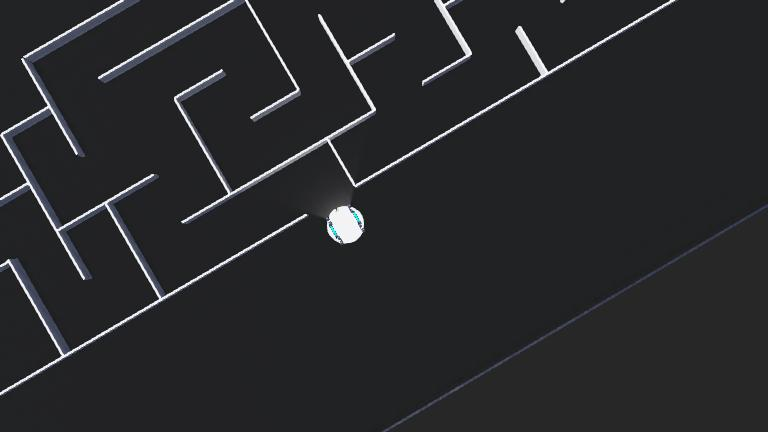
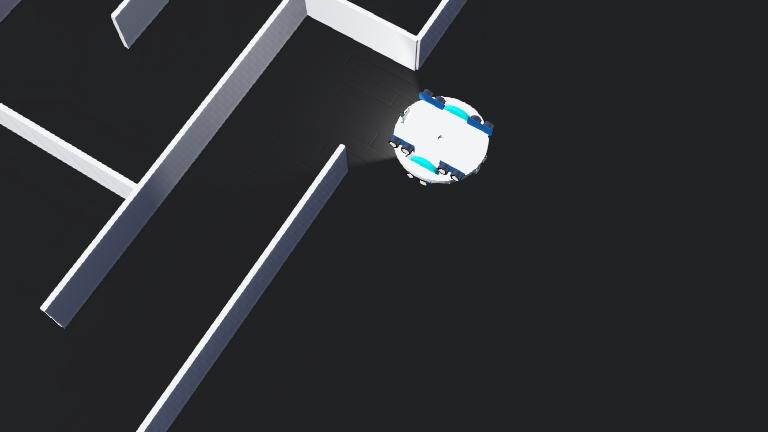
moved cam downwards. Orange detection works

diff --git a/test_array.py b/test_array.py
@@ -3,14 +3,14 @@ arr1=[[[0, 0, 1, 1], [1, 0, 1, 0], [1, 0, 1, 0], [1, 0, 1, 0], [1, 0, 1, 0], [1,
 [[0, 1, 0, 1], [0, 0, 0, 1], [1, 0, 1, 0], [0, 1, 1, 0], [1, 1, 0, 1], [1, 0, 0, 1], [0, 0, 1, 0], [0, 1, 1, 0], [0, 0, 1, 1], [1, 0, 1, 0], [0, 1, 1, 0], [1, 0, 1, 1], [0, 0, 1, 0], [0, 1, 0, 0], [0, 0, 0, 1], [1, 1, 0, 0], [0, 0, 0, 1], [1, 1, 1, 0], [1, 0, 0, 1], [1, 1, 1, 0]],
 [[0, 1, 0, 1], [1, 0, 0, 1], [0, 1, 1, 0], [1, 0, 0, 1], [1, 0, 1, 0], [1, 0, 1, 0], [0, 1, 0, 0], [0, 1, 0, 1], [0, 1, 0, 1], [0, 1, 1, 1], [0, 1, 0, 1], [0, 0, 1, 1], [1, 1, 0, 0], [0, 0, 0, 1], [1, 1, 1, 1], [1, 1, 1, 1], [1, 1, 1, 1], [0, 0, 1, 0], [1, 0, 1, 0], [0, 1, 1, 0]],
 [[0, 0, 0, 1], [1, 1, 1, 0], [1, 0, 0, 1], [1, 0, 1, 0], [0, 0, 1, 0], [0, 1, 1, 0], [1, 1, 0, 1], [1, 0, 0, 1], [1, 1, 0, 0], [0, 1, 0, 1], [0, 1, 0, 1], [1, 0, 0, 1], [0, 1, 1, 0], [0, 0, 0, 1], [1, 1, 1, 1], [1, 1, 1, 1], [1, 1, 1, 1], [1, 1, 0, 0], [1, 0, 1, 1], [1, 1, 0, 0]],
-[[1, 0, 0, 1], [1, 0, 1, 0], [0, 1, 1, 0], [0, 0, 1, 1], [1, 0, 0, 0], [1, 0, 0, 0], [1, 1, 1, 0], [0, 0, 1, 1], [1, 0, 1, 0], [1, 1, 0, 0], [1, 0, 0, 1], [0, 1, 1, 0], [1, 0, 0, 1], [1, 0, 0, 0], [0, 0, 1, 0], [0, 1, 0, 0], [1, 1, 1, 1], [0, 1, 1, 0], [0, 0, 1, 1], [0, 1, 1, 0]],
-[[0, 0, 1, 1], [0, 1, 1, 0], [0, 1, 0, 1], [0, 1, 0, 1], [0, 0, 1, 1], [0, 1, 1, 0], [0, 0, 1, 1], [1, 0, 0, 0], [1, 0, 1, 0], [1, 0, 1, 0], [0, 1, 1, 0], [0, 0, 0, 1], [0, 0, 1, 0], [0, 1, 1, 0], [1, 0, 0, 1], [1, 1, 1, 1], [0, 1, 0, 0], [1, 0, 0, 1], [1, 1, 0, 0], [0, 1, 0, 1]],
+[[1, 0, 0, 1], [1, 0, 1, 0], [0, 1, 1, 0], [0, 0, 1, 1], [1, 0, 0, 0], [1, 0, 0, 0], [1, 1, 1, 0], [0, 0, 1, 1], [1, 0, 1, 0], [1, 1, 0, 0], [1, 0, 0, 1], [0, 1, 1, 0], [1, 0, 0, 1], [1, 0, 0, 0], [1, 1, 1, 1], [1, 1, 1, 1], [1, 1, 1, 1], [0, 1, 1, 0], [0, 0, 1, 1], [0, 1, 1, 0]],
+[[0, 0, 1, 1], [0, 1, 1, 0], [0, 1, 0, 1], [0, 1, 0, 1], [0, 0, 1, 1], [0, 1, 1, 0], [0, 0, 1, 1], [1, 0, 0, 0], [1, 0, 1, 0], [1, 0, 1, 0], [0, 1, 1, 0], [0, 0, 0, 1], [0, 0, 1, 0], [0, 1, 1, 0], [1, 0, 0, 1], [0, 0, 0, 0], [0, 1, 0, 0], [1, 0, 0, 1], [1, 1, 0, 0], [0, 1, 0, 1]],
 [[0, 1, 0, 1], [0, 1, 0, 1], [0, 1, 0, 1], [0, 1, 0, 1], [0, 1, 0, 1], [1, 0, 0, 1], [1, 1, 0, 0], [1, 0, 1, 1], [0, 1, 1, 0], [1, 0, 1, 1], [1, 1, 0, 0], [0, 1, 0, 1], [1, 0, 0, 1], [0, 1, 0, 0], [0, 1, 1, 1], [0, 1, 0, 1], [1, 0, 0, 1], [1, 0, 1, 0], [0, 0, 1, 0], [1, 1, 0, 0]],
 [[1, 1, 0, 1], [0, 1, 0, 1], [0, 1, 0, 1], [1, 0, 0, 1], [1, 1, 0, 0], [0, 0, 1, 1], [1, 0, 1, 0], [0, 1, 1, 0], [0, 1, 0, 1], [0, 0, 1, 1], [0, 1, 1, 0], [0, 0, 0, 1], [1, 0, 1, 0], [1, 0, 0, 0], [1, 0, 0, 0], [1, 1, 0, 0], [0, 0, 1, 1], [0, 1, 1, 0], [1, 0, 0, 1], [0, 1, 1, 0]],
 [[0, 0, 1, 1], [1, 1, 0, 0], [0, 1, 0, 1], [0, 0, 1, 1], [1, 0, 1, 0], [1, 1, 0, 0], [0, 1, 1, 1], [1, 0, 0, 1], [0, 0, 0, 0], [0, 1, 0, 0], [0, 0, 0, 1], [1, 1, 0, 0], [0, 0, 1, 1], [1, 0, 1, 0], [1, 1, 1, 1], [1, 1, 1, 1], [1, 1, 1, 1], [0, 1, 0, 1], [0, 1, 1, 1], [0, 1, 0, 1]],
-[[0, 0, 0, 1], [0, 0, 1, 0], [1, 1, 0, 0], [1, 0, 0, 1], [0, 1, 1, 0], [1, 0, 1, 1], [0, 0, 0, 0], [1, 1, 1, 0], [0, 0, 0, 1], [0, 1, 0, 0], [0, 1, 0, 1], [0, 1, 1, 1], [1, 0, 0, 1], [1, 0, 1, 0], [0, 0, 1, 0], [1, 1, 1, 1], [1, 1, 1, 1], [1, 1, 0, 0], [1, 0, 0, 1], [0, 1, 0, 0]],
+[[0, 0, 0, 1], [0, 0, 1, 0], [1, 1, 0, 0], [1, 0, 0, 1], [0, 1, 1, 0], [1, 0, 1, 1], [0, 0, 0, 0], [1, 1, 1, 0], [0, 0, 0, 1], [0, 1, 0, 0], [0, 1, 0, 1], [0, 1, 1, 1], [1, 0, 0, 1], [1, 0, 1, 0], [1, 1, 1, 1], [1, 1, 1, 1], [1, 1, 1, 1], [1, 1, 0, 0], [1, 0, 0, 1], [0, 1, 0, 0]],
 [[0, 0, 0, 1], [0, 1, 0, 0], [1, 0, 1, 1], [0, 1, 1, 0], [1, 0, 0, 1], [0, 1, 1, 0], [1, 0, 0, 1], [0, 0, 1, 0], [1, 1, 0, 0], [0, 1, 0, 1], [0, 1, 0, 1], [0, 0, 0, 1], [0, 1, 1, 0], [0, 1, 1, 1], [1, 1, 1, 1], [1, 1, 1, 1], [1, 1, 1, 1], [1, 0, 1, 0], [1, 0, 1, 0], [0, 1, 0, 0]],
-[[0, 1, 0, 1], [1, 1, 1, 1], [1, 1, 1, 1], [0, 1, 0, 0], [0, 0, 1, 1], [1, 0, 0, 0], [0, 0, 1, 0], [0, 1, 0, 0], [0, 0, 1, 1], [1, 1, 0, 0], [1, 0, 0, 1], [1, 1, 0, 0], [1, 0, 0, 1], [0, 0, 0, 0], [0, 1, 0, 0], [0, 1, 0, 1], [0, 0, 0, 1], [0, 1, 1, 0], [1, 0, 1, 1], [0, 1, 0, 0]],
+[[0, 1, 0, 1], [1, 1, 1, 1], [1, 1, 1, 1], [1, 1, 1, 1], [0, 0, 1, 1], [1, 0, 0, 0], [0, 0, 1, 0], [0, 1, 0, 0], [0, 0, 1, 1], [1, 1, 0, 0], [1, 0, 0, 1], [1, 1, 0, 0], [1, 0, 0, 1], [0, 0, 0, 0], [0, 1, 0, 0], [0, 1, 0, 1], [0, 0, 0, 1], [0, 1, 1, 0], [1, 0, 1, 1], [0, 1, 0, 0]],
 [[0, 1, 0, 1], [1, 1, 1, 1], [1, 1, 1, 1], [1, 1, 1, 1], [1, 1, 0, 1], [0, 0, 1, 1], [0, 0, 0, 0], [0, 1, 0, 0], [0, 0, 0, 1], [0, 0, 1, 0], [1, 0, 1, 0], [1, 0, 1, 0], [1, 1, 1, 0], [1, 0, 0, 1], [0, 1, 0, 0], [1, 1, 0, 1], [1, 1, 0, 1], [0, 0, 0, 1], [0, 1, 1, 0], [1, 1, 0, 1]],
 [[0, 1, 0, 1], [1, 1, 1, 1], [1, 1, 1, 1], [1, 1, 1, 1], [1, 0, 1, 0], [1, 1, 0, 0], [0, 0, 0, 1], [1, 0, 0, 0], [1, 0, 0, 0], [1, 0, 0, 0], [0, 1, 1, 0], [0, 0, 1, 1], [1, 0, 1, 0], [0, 0, 1, 0], [1, 1, 0, 0], [0, 0, 1, 1], [0, 1, 1, 0], [0, 0, 0, 1], [1, 0, 0, 0], [0, 1, 1, 0]],
 [[1, 0, 0, 1], [0, 1, 1, 0], [1, 0, 0, 1], [1, 0, 1, 0], [1, 0, 1, 0], [0, 0, 1, 0], [1, 1, 0, 0], [0, 0, 1, 1], [1, 0, 1, 0], [1, 0, 1, 0], [1, 1, 0, 0], [0, 0, 0, 1], [1, 1, 1, 0], [1, 0, 0, 1], [0, 1, 1, 0], [0, 1, 0, 1], [1, 0, 0, 1], [1, 0, 0, 0], [0, 1, 1, 0], [1, 1, 0, 1]],
@@ -18,7 +18,6 @@ arr1=[[[0, 0, 1, 1], [1, 0, 1, 0], [1, 0, 1, 0], [1, 0, 1, 0], [1, 0, 1, 0], [1,
 [[1, 0, 0, 1], [0, 0, 1, 0], [0, 1, 0, 0], [0, 0, 0, 1], [1, 0, 1, 0], [0, 1, 1, 0], [1, 0, 0, 1], [1, 0, 0, 0], [0, 1, 0, 0], [0, 0, 1, 1], [1, 1, 0, 0], [0, 1, 0, 1], [1, 0, 0, 1], [0, 1, 0, 0], [1, 1, 0, 1], [0, 0, 1, 1], [1, 1, 0, 0], [0, 1, 0, 1], [0, 0, 1, 1], [1, 1, 0, 0]],
 [[0, 1, 1, 1], [0, 1, 0, 1], [1, 1, 0, 1], [1, 0, 0, 1], [0, 1, 1, 0], [0, 1, 0, 1], [0, 1, 1, 1], [0, 0, 1, 1], [1, 1, 0, 0], [1, 0, 0, 1], [1, 0, 1, 0], [1, 1, 0, 0], [0, 0, 1, 1], [1, 1, 0, 0], [0, 0, 1, 1], [0, 1, 0, 0], [0, 0, 1, 1], [1, 1, 0, 0], [0, 1, 0, 1], [0, 1, 1, 1]],
 [[1, 0, 0, 1], [1, 0, 0, 0], [1, 0, 1, 0], [1, 0, 1, 0], [1, 1, 0, 0], [1, 0, 0, 1], [1, 1, 0, 0], [1, 0, 0, 1], [1, 0, 1, 0], [1, 0, 1, 0], [0, 1, 1, 0], [1, 0, 1, 1], [1, 0, 0, 0], [1, 0, 1, 0], [1, 1, 0, 0], [1, 0, 0, 1], [1, 0, 0, 0], [1, 0, 1, 0], [1, 0, 0, 0], [1, 1, 0, 0]]]
-
 
 arr2 = [[[0, 0, 1, 1], [1, 0, 1, 0], [1, 0, 1, 0], [1, 0, 1, 0], [1, 0, 1, 0], [1, 0, 1, 0], [0, 0, 1, 0], [0, 0, 1, 0], [0, 0, 1, 0], [0, 1, 1, 0], [0, 0, 1, 1], [0, 0, 1, 0], [0, 1, 1, 0], [1, 0, 1, 1], [1, 0, 1, 0], [0, 0, 1, 0], [1, 0, 1, 0], [0, 0, 1, 0], [1, 0, 1, 0], [0, 1, 1, 0]],
 [[0, 0, 0, 1], [0, 0, 1, 0], [1, 0, 1, 0], [1, 0, 1, 0], [0, 1, 1, 0], [0, 0, 1, 1], [1, 1, 0, 0], [1, 0, 0, 1], [1, 1, 0, 0], [1, 0, 0, 1], [1, 0, 0, 0], [1, 1, 0, 0], [1, 0, 0, 1], [0, 0, 1, 0], [0, 1, 1, 0], [0, 1, 0, 1], [0, 0, 1, 1], [1, 1, 0, 0], [0, 0, 1, 1], [1, 1, 0, 0]],
@@ -46,5 +45,5 @@ s=1
 
 for i in range(20):
     for j in range(20):
-        if arr1[i][j] ==[1,1,1,1]:
+        if arr1[i][j] !=arr2[i][j]:
                 print("zone at (",i,j,")")

diff --git a/controllers/my_controller/baseFunctions.py b/controllers/my_controller/baseFunctions.py
@@ -3,6 +3,7 @@ import math
 import cv2
 import numpy as np
 
+cv2.namedWindow("camera", cv2.WINDOW_NORMAL)
 robot = Robot()
 timestep = int(robot.getBasicTimeStep())
 
@@ -87,8 +88,9 @@ def check_grean(left_frame,right_frame):
 
 def check_orange(middle_frame):
     orange_pixel =(middle_frame[:,:,0]<50) & (middle_frame[:,:,2]>200) # Detect orange and Red
-    print(middle_frame[10][10])
-    if orange_pixel.all():
+    orange_ratio = np.sum(orange_pixel)/orange_pixel.size
+    print(orange_ratio)
+    if orange_ratio > 0.6:
         print('orange found 🟠🟠🟠🟠🟠🟠🟠🟠🟠🟠🟠🟠🟠🟠🟠🟠🟠🟠🟠🟠🟠🟠')        
         return True
     return False
